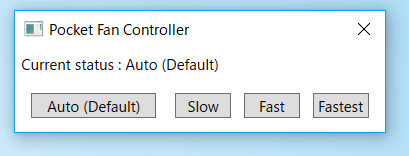
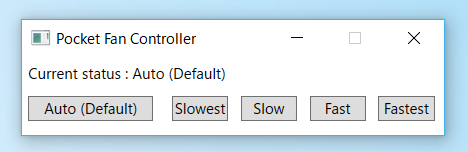
Add slowest state.

diff --git a/PocketFanController/MainWindow.xaml b/PocketFanController/MainWindow.xaml
@@ -5,17 +5,18 @@
         xmlns:mc="http://schemas.openxmlformats.org/markup-compatibility/2006"
         xmlns:local="clr-namespace:PocketFanController"
         mc:Ignorable="d"
-        Title="Pocket Fan Controller" Height="105" Width="310" ResizeMode="CanMinimize" WindowStartupLocation="CenterScreen">
+        Title="Pocket Fan Controller" Height="100" Width="352" ResizeMode="CanMinimize" WindowStartupLocation="CenterScreen">
     <Window.DataContext>
         <local:ViewModel />
     </Window.DataContext>
     <StackPanel>
         <Label x:Name="CurrentStatus" Content="{Binding CurrentStateText,Mode=OneWay,UpdateSourceTrigger=PropertyChanged}"/>
-        <StackPanel Orientation="Horizontal" Margin="0,10,0,0" HorizontalAlignment="Center">
-            <Button x:Name="SetDefault" Content="Auto (Default)" HorizontalAlignment="Left"  VerticalAlignment="Center" Width="100" Command="{Binding SetDefault}" Margin="0,0,5,0" />
-            <Button x:Name="SetLow" Content="Slow" HorizontalAlignment="Left"  VerticalAlignment="Center" Width="45" Command="{Binding SetLow}" Margin="10,0"/>
-            <Button x:Name="SetMiddle" Content="Fast" HorizontalAlignment="Left" VerticalAlignment="Center" Width="45" Command="{Binding SetMiddle}"/>
-            <Button x:Name="SetFast" Content="Fastest" HorizontalAlignment="Left"  VerticalAlignment="Center" Width="45" Command="{Binding SetFast}" Margin="10,0,0,0"/>
+        <StackPanel Orientation="Horizontal" Margin="0,5,0,0" HorizontalAlignment="Left">
+            <Button x:Name="SetDefault" Content="Auto (Default)" HorizontalAlignment="Left"  VerticalAlignment="Center" Width="100" Command="{Binding SetDefault}" Margin="5,0,10,0" HorizontalContentAlignment="Center" />
+            <Button x:Name="SetSlowest" Content="Slowest" HorizontalAlignment="Left"  VerticalAlignment="Center" Width="45" Command="{Binding SetSlowest}" Margin="5,0"/>
+            <Button x:Name="SetSlow" Content="Slow" HorizontalAlignment="Left"  VerticalAlignment="Center" Width="45" Command="{Binding SetSlow}" Margin="5,0"/>
+            <Button x:Name="SetFast" Content="Fast" HorizontalAlignment="Left" VerticalAlignment="Center" Width="45" Command="{Binding SetFast}" Margin="5,0"/>
+            <Button x:Name="SetFastest" Content="Fastest" HorizontalAlignment="Left"  VerticalAlignment="Center" Width="45" Command="{Binding SetFastest}" Margin="5,0,0,0"/>
         </StackPanel>
     </StackPanel>
 </Window>

diff --git a/PocketFanController/Model.cs b/PocketFanController/Model.cs
@@ -19,7 +19,8 @@ namespace PocketFanController
             var state1 = new[] {99, 99, 10};
             var state2 = new[] {99, 10, 99};
             var state3 = new[] {10, 99, 99};
-            var states = new[] {state0, state1, state2, state3};
+            var state4 = new[] {99, 99, 80};
+            var states = new[] {state0, state1, state2, state3,state4};
 
             var t0 = ReadReg(@"SYSTEM\CurrentControlSet\Services\wfan0109", "t0");
             var t1 = ReadReg(@"SYSTEM\CurrentControlSet\Services\wfan0109", "t1");
@@ -43,7 +44,7 @@ namespace PocketFanController
             RestartService();
         }
 
-        public void SetLow()
+        public void SetSlow()
         {
             WriteReg(@"SYSTEM\CurrentControlSet\Services\wfan0109", "t0", 10);
             WriteReg(@"SYSTEM\CurrentControlSet\Services\wfan0109", "t1", 99);
@@ -51,7 +52,7 @@ namespace PocketFanController
             RestartService();
         }
 
-        public void SetMiddle()
+        public void SetFast()
         {
             WriteReg(@"SYSTEM\CurrentControlSet\Services\wfan0109", "t0", 99);
             WriteReg(@"SYSTEM\CurrentControlSet\Services\wfan0109", "t1", 10);
@@ -59,13 +60,23 @@ namespace PocketFanController
             RestartService();
         }
 
-        public void SetFast()
+        public void SetFastest()
         {
             WriteReg(@"SYSTEM\CurrentControlSet\Services\wfan0109", "t0", 99);
             WriteReg(@"SYSTEM\CurrentControlSet\Services\wfan0109", "t1", 99);
             WriteReg(@"SYSTEM\CurrentControlSet\Services\wfan0109", "t2", 10);
             RestartService();
         }
+
+        public void SetSlowest()
+        {
+            WriteReg(@"SYSTEM\CurrentControlSet\Services\wfan0109", "t0", 99);
+            WriteReg(@"SYSTEM\CurrentControlSet\Services\wfan0109", "t1", 99);
+            //熱くなりすぎたらファンを全開にする。
+            WriteReg(@"SYSTEM\CurrentControlSet\Services\wfan0109", "t2", 85);
+            RestartService();
+        }
+
 
         public void WriteReg(string subKey, string keyName, int value)
         {

diff --git a/PocketFanController/ViewModel.cs b/PocketFanController/ViewModel.cs
@@ -7,9 +7,10 @@ namespace PocketFanController
         private Model Model = Model.Instance;
 
         public ICommand SetDefault { get; }
-        public ICommand SetLow { get; }
-        public ICommand SetMiddle { get; }
+        public ICommand SetSlow { get; }
         public ICommand SetFast { get; }
+        public ICommand SetFastest { get; }
+        public ICommand SetSlowest { get; }
 
         public ViewModel()
         {
@@ -19,22 +20,28 @@ namespace PocketFanController
                 CurrentState = 0;
             });
 
-            SetLow = new RelayCommand(() =>
+            SetSlow = new RelayCommand(() =>
             {
-                Model.SetLow();
+                Model.SetSlow();
                 CurrentState = 3;
-            });
-
-            SetMiddle = new RelayCommand(() =>
-            {
-                Model.SetMiddle();
-                CurrentState = 2;
             });
 
             SetFast = new RelayCommand(() =>
             {
                 Model.SetFast();
+                CurrentState = 2;
+            });
+
+            SetFastest = new RelayCommand(() =>
+            {
+                Model.SetFastest();
                 CurrentState = 1;
+            });
+
+            SetSlowest = new RelayCommand(() =>
+            {
+                Model.SetSlowest();
+                CurrentState = 4;
             });
 
             Model.GetCurrentStatus();
@@ -64,6 +71,8 @@ namespace PocketFanController
                         return "Current status : Fast";
                     case 3:
                         return "Current status : Slow";
+                    case 4:
+                        return "Current status : Slowest";
                     default:
                         return "Current status : Auto (Default)";
                 }

diff --git a/PocketFanController/Properties/AssemblyInfo.cs b/PocketFanController/Properties/AssemblyInfo.cs
@@ -51,7 +51,7 @@ using System.Windows;
 // すべての値を指定するか、次を使用してビルド番号とリビジョン番号を既定に設定できます
 // 既定値にすることができます:
 // [assembly: AssemblyVersion("1.0.*")]
-[assembly: AssemblyVersion("0.1.1.0")]
-[assembly: AssemblyFileVersion("0.1.1.0")]
+[assembly: AssemblyVersion("0.1.2.0")]
+[assembly: AssemblyFileVersion("0.1.2.0")]
 [assembly: NeutralResourcesLanguage("en")]
 

diff --git a/README.md b/README.md
@@ -1,7 +1,7 @@
 # Pocket Fan Controller
   
 Manually set the fan speed of "GPD Pocket".  
-It can be set in 3 stages.  
+It can be set in 4 stages.  
 For safety reasons, it returns to the default (automatic) at the end of the application.  
   
 In the unlikely event the hardware may break down.  
